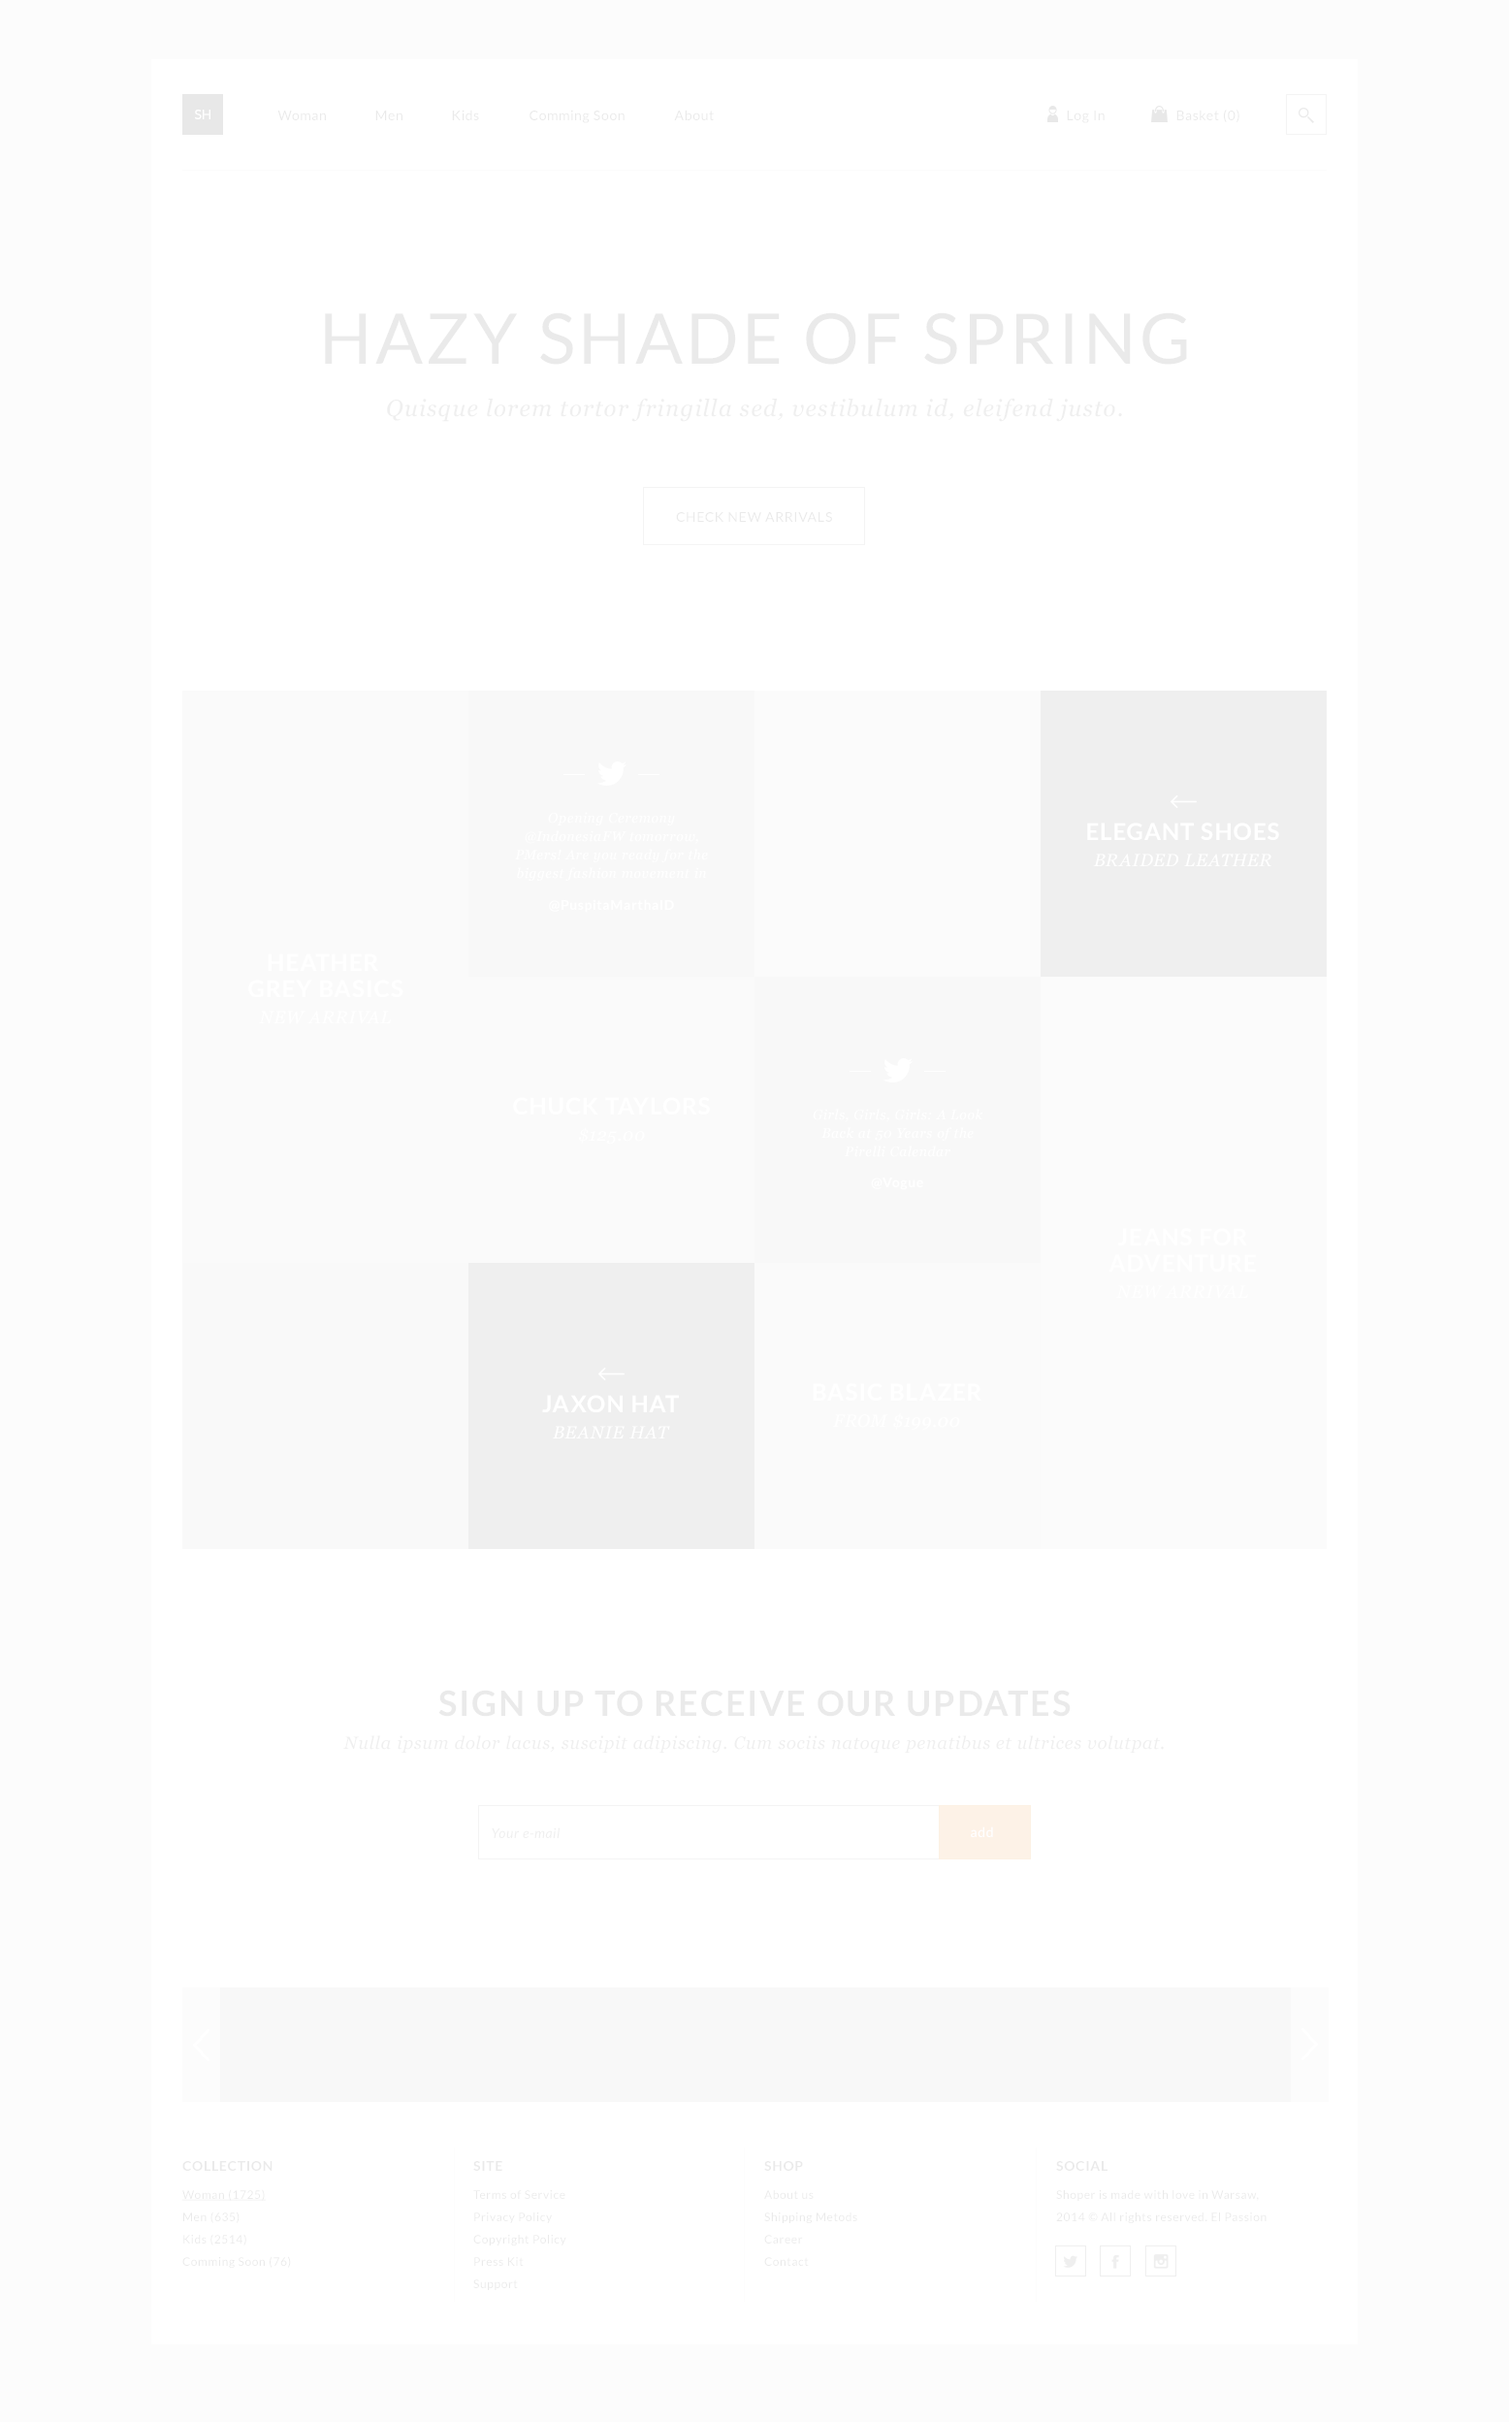
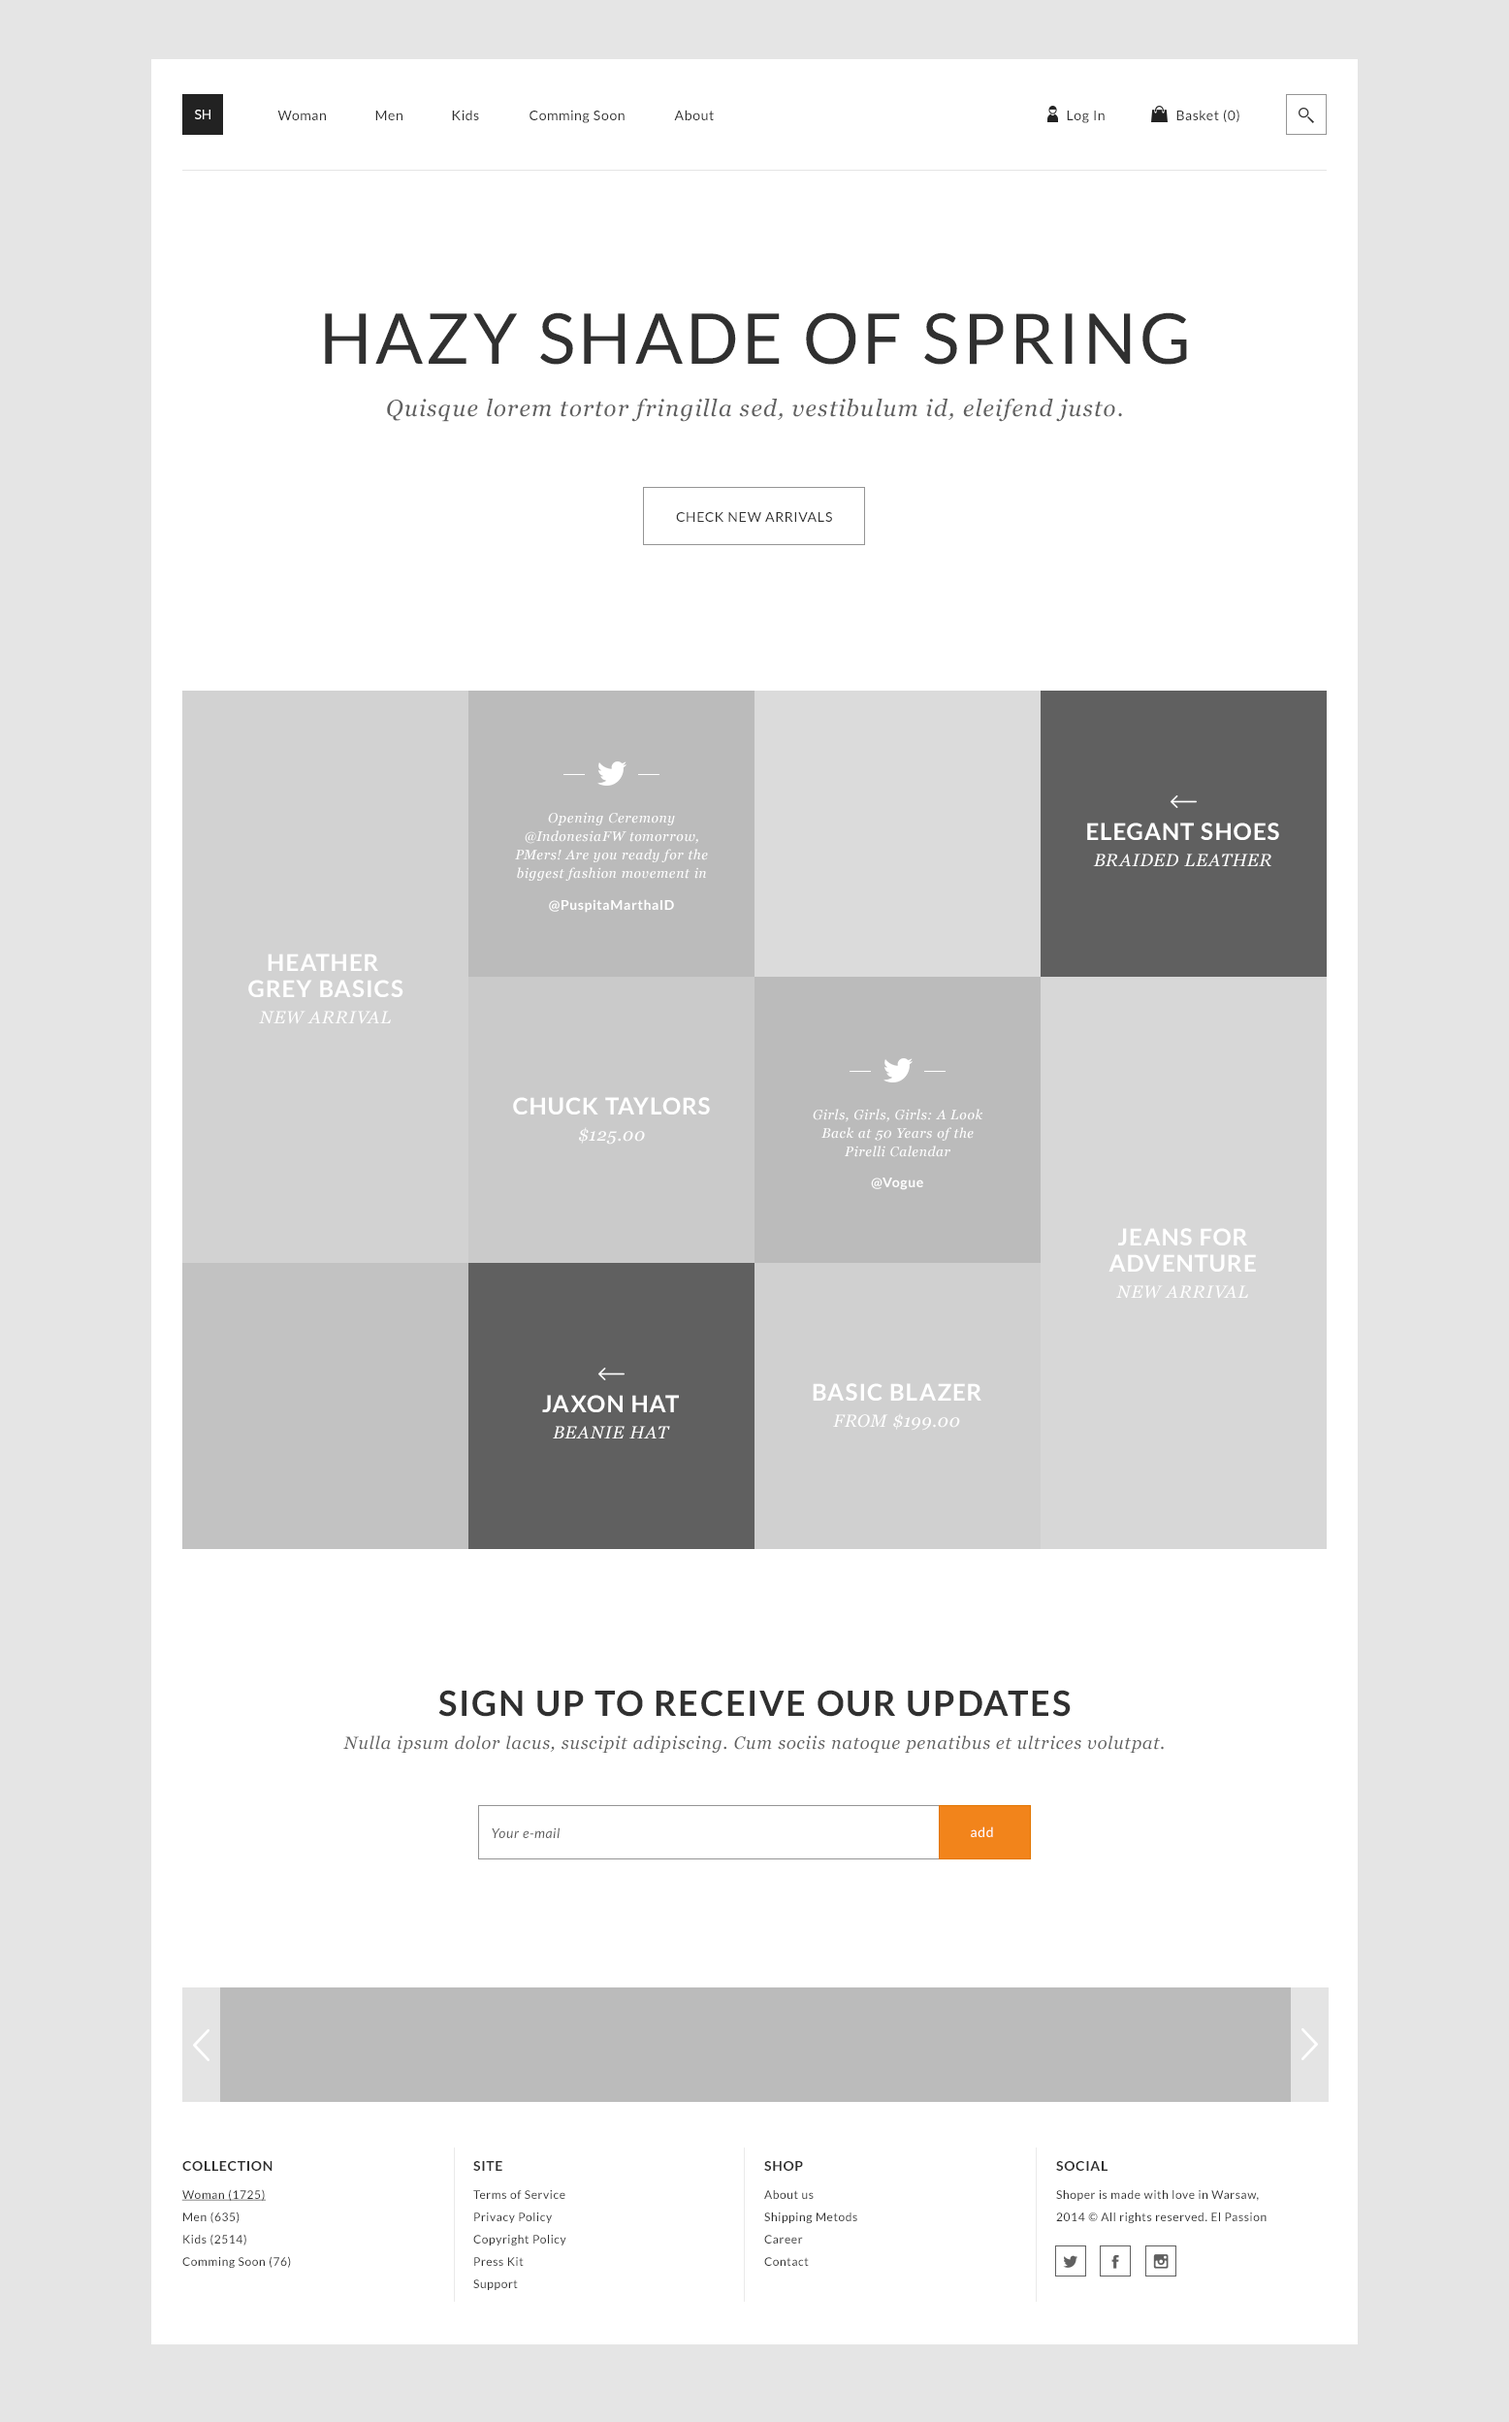
Grid of floating divs

diff --git a/css/style.css b/css/style.css
@@ -11,6 +11,8 @@ html {
   -moz-box-sizing: inherit;
   box-sizing: inherit;
   font-family: inherit;
+  
+  outline: none;
 }
 
 .clearfix:after {
@@ -40,7 +42,7 @@ i.icon-basket {
 
 body {
   background-color: #e5e5e5;
-  /*background: url('../img/design.png') no-repeat center top;*/
+  /*background: url('../img/design-light.png') no-repeat center top;*/
 }
 
 .container {
@@ -120,22 +122,24 @@ body {
   border-right: none;
   line-height: 36px;
   padding: 2px 10px;
-  margin-right: -4px;
+  margin: 0 -4px 0 0;
   font-size: 14px;
+  vertical-align: middle;
 }
 
 .page-header form input[type="search"]:focus,
 .page-header form:hover input[type="search"] {
-  display: inline;
+  display: inline-block;
 }
 
 .page-header form input[type="submit"] {
   border: 1px solid #959595;
   display: inline-block;
+  vertical-align: middle;
   width: 42px;
   height: 42px;
-  background: transparent url(../img/search-icon.png) center no-repeat;
-  text-indent: -9999px
+  background: transparent url(../img/search-icon.png) no-repeat center;
+  text-indent: -9999px;
 }
 
 main header {
@@ -177,4 +181,100 @@ main header a {
 main header a:hover {
   background-color: #303030;
   color: #fff;
+}
+
+main section article {
+  float: left;
+  width: 25%;
+  height: 295px;
+  color: #fff;
+  text-align: center;
+  line-height: 295px;
+}
+
+main section article .article-content {
+  display: inline-block;
+  vertical-align: middle;
+  line-height: normal;
+}
+
+main section article h1,
+main section article h2,
+main section article p {
+  margin: 0;
+  text-transform: uppercase;
+  letter-spacing: 1px;
+}
+
+main section article h1,
+main section article h2 {
+  font-weight: bold;
+  font-size: 24px;
+}
+
+main section article.article-big {
+  height: 590px;
+  line-height: 590px;
+}
+
+main section article.article-big h1 {
+  padding: 0 58px;
+}
+
+main section article.article-category h1:before {
+  content: "";
+  display: block;
+  background: url(../img/left-arrow-icon.png) no-repeat center;
+  height: 13px;
+  margin-bottom: 4px;
+  position: relative;
+  top: -6px;
+}
+
+main section article.article-category p,
+main section article.article-product p {
+  font-family: Georgia, Times, 'Times New Roman', serif;
+  font-style: italic;
+  font-size: 18px;
+  margin-top: 3px;
+}
+
+main section article.article-tweet h1 {
+  text-indent: -9999px;
+  display: inline-block;
+  background: url(../img/twitter-icon.png) no-repeat center;
+  width: 99px;
+  height: 25px;
+}
+
+main section article.article-tweet blockquote,
+main section article.article-tweet p {
+  font-size: 14px;
+}
+
+main section article.article-tweet blockquote {
+  margin: 26px 0 14px;
+  padding: 0 58px;
+  font-family: Georgia, Times, 'Times New Roman', serif;
+}
+
+main section article.article-tweet p {
+  font-family: inherit;
+  text-transform: inherit;
+  font-weight: bold;
+}
+
+main section article:nth-child(1) { background-color: #d2d2d2; }
+main section article:nth-child(2) { background-color: #bbbbbb; }
+main section article:nth-child(3) { background-color: #dbdbdb; }
+main section article:nth-child(4) { background-color: #606060; }
+main section article:nth-child(5) { background-color: #cacaca; }
+main section article:nth-child(6) { background-color: #bbbbbb; }
+main section article:nth-child(7) { background-color: #d7d7d7; }
+main section article:nth-child(8) { background-color: #c2c2c2; }
+main section article:nth-child(9) { background-color: #606060; }
+main section article:nth-child(10) { background-color: #d0d0d0; }
+
+main section article:nth-child(7) {
+  margin-bottom: -295px;
 }

diff --git a/index.html b/index.html
@@ -35,42 +35,58 @@
           <p>Quisque lorem tortor fringilla sed, vestibulum id, eleifend justo.</p>
           <a href="#">Check new Arrivals</a>
         </header>
-        <section>
-          <article>
-            <h1>Heather Grey Basics</h1>
-            <p>New Arrival</p>
+        <section class="clearfix">
+          <article class="article-product article-big">
+            <div class="article-content">
+              <h1>Heather Grey Basics</h1>
+              <p>New Arrival</p>
+            </div>
           </article>
-          <article>
-            <h1>Tweet</h1>
-            <blockquote>Opening Ceremony @IndonesiaFW tomorrow, PMers! Are you ready for the biggest fashion movement in Indonesia? #infoPM pic.twitter.com/3VQvwt4diJ</blockquote>
-            <p>@PuspitaMarthaID</p>
+          <article class="article-tweet">
+            <div class="article-content">
+              <h1>Tweet</h1>
+              <blockquote>Opening Ceremony @IndonesiaFW tomorrow, PMers! Are you ready for the biggest fashion movement in</blockquote>
+              <p>@PuspitaMarthaID</p>
+            </div>
           </article>
-          <article></article>
-          <article>
-            <h1>Elegant Shoes</h1>
-            <p>Braided Leather</p>
+          <article class="article-spacer"></article>
+          <article class="article-category">
+            <div class="article-content">
+              <h1>Elegant Shoes</h1>
+              <p>Braided Leather</p>
+            </div>
           </article>
-          <article>
-            <h1>Chuck Taylors</h1>
-            <p>$125.00</p>
+          <article class="article-product">
+            <div class="article-content">
+              <h1>Chuck Taylors</h1>
+              <p>$125.00</p>
+            </div>
           </article>
-          <article>
-            <h1>Tweet</h1>
-            <blockquote>Girls, Girls, Girls: A Look Back at 50 Years of the Pirelli Calendar</blockquote>
-            <p>@Vogue</p>
+          <article class="article-tweet">
+            <div class="article-content">
+              <h1>Tweet</h1>
+              <blockquote>Girls, Girls, Girls: A Look Back at 50 Years of the Pirelli Calendar</blockquote>
+              <p>@Vogue</p>
+            </div>
           </article>
-          <article>
-            <h1>Jeans for Adventure</h1>
-            <p>New Arrival</p>
+          <article class="article-product article-big">
+            <div class="article-content">
+              <h1>Jeans for Adventure</h1>
+              <p>New Arrival</p>
+            </div>
           </article>
-          <article></article>
-          <article>
-            <h1>Jaxon Hat</h1>
-            <p>Beanie Hat</p>
+          <article class="article-spacer"></article>
+          <article class="article-category">
+            <div class="article-content">
+              <h1>Jaxon Hat</h1>
+              <p>Beanie Hat</p>
+            </div>
           </article>
-          <article>
-            <h1>Basic Blazer</h1>
-            <p>from $199.00</p>
+          <article class="article-product">
+            <div class="article-content">
+              <h1>Basic Blazer</h1>
+              <p>from $199.00</p>
+            </div>
           </article>
         </section>
         <footer>
